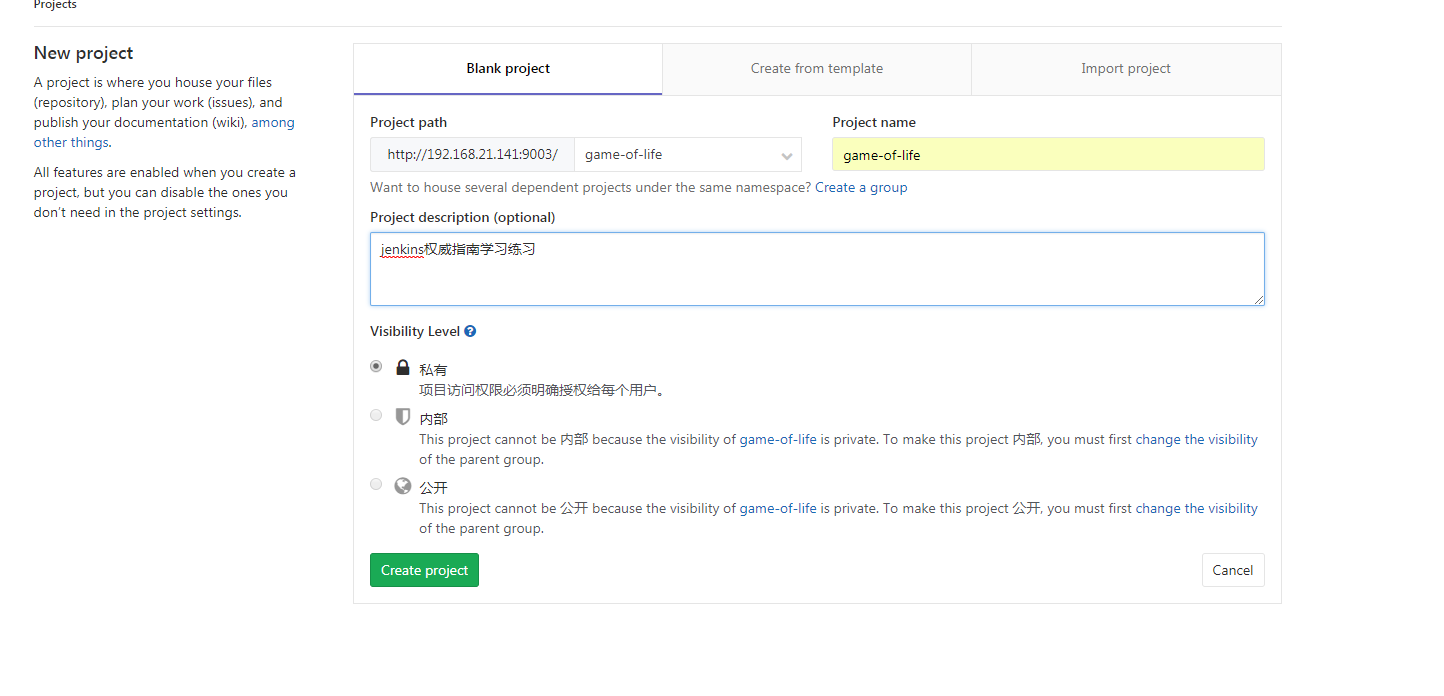
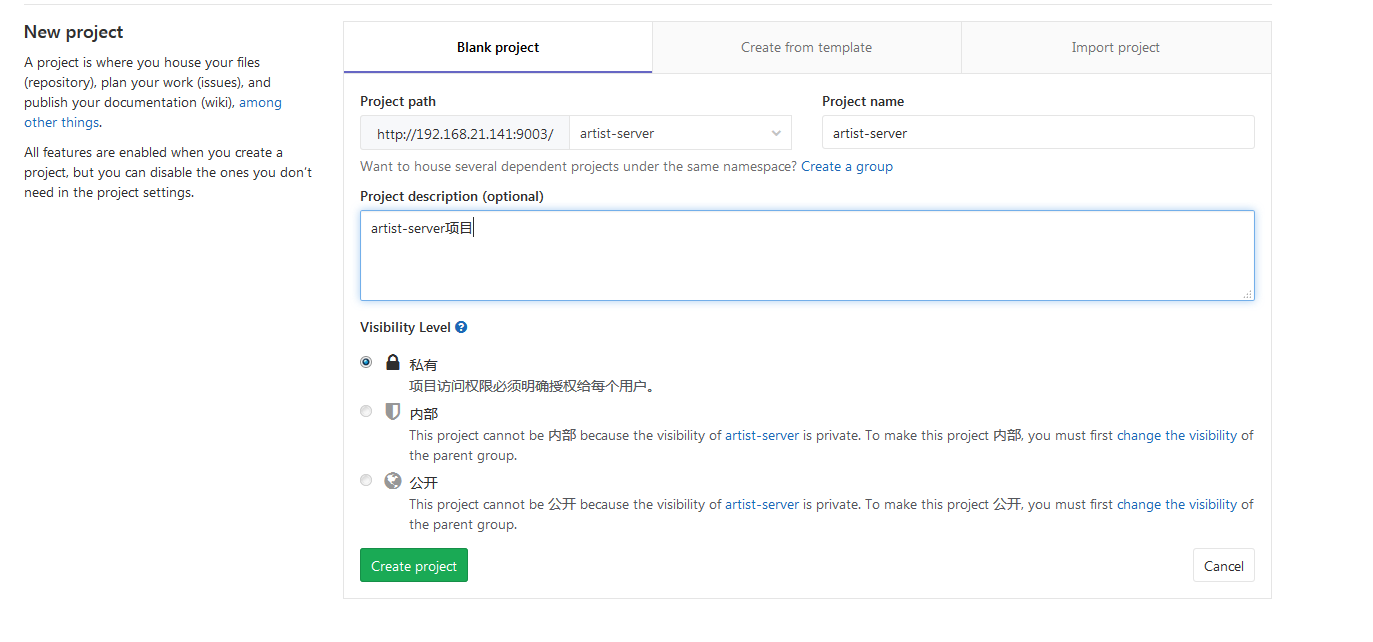
删除不必要的文档

diff --git a/docker_jenkins_gitlab/gitlab-webhook-jenkins.md b/docker_jenkins_gitlab/gitlab-webhook-jenkins.md
@@ -21,7 +21,7 @@
 		![jenkins中java jdk设置](images/docker_jenkins_gitlab/jenkins-jdk.png)
 	* maven设置
 		![jenkins中maven设置](images/docker_jenkins_gitlab/jenkins-maven.png)
-* 配置GitLab插件,获得accessToken(创建一个用户jenkins，密码为jenkinspwd)
+* 配置GitLab插件,获得accessToken(创建一个用户jenkins，密码为jenkinsjenkins)
 	![Access Token获得](images/docker_jenkins_gitlab/gitlab-access-token.png)
 * jenkins中gitlab配置
 	![jenkins中gitlab设置](images/docker_jenkins_gitlab/jenkins-gitlab.png)
@@ -38,10 +38,13 @@
 ## jenkins创建Job
 * 创建一个maven的job
 
-	！[创建一个maven的job](images/docker_jenkins_gitlab/maven-job-create.png)
+	![创建一个maven的job](images/docker_jenkins_gitlab/maven-job-create.png)
 * 设置git
 	![git设置](images/docker_jenkins_gitlab/maven-job-credentials-add.png)
+	此处的用户名和密码为jenkins/jenkinsjenkins
 	![gitlab中的jenkins用户和密码](images/docker_jenkins_gitlab/maven-job-credentials-gitlab-info.png)
+	选择后不出现红色告警提示
+	![git设置](images/docker_jenkins_gitlab/maven-job-credentials-selected.png)
 * pom设置
 	![pom设置](images/docker_jenkins_gitlab/maven-job-pom.png)
 
@@ -54,11 +57,12 @@
 ![](images/docker_jenkins_gitlab/gitlab-webhook-setting.png)
 ### test报错403错误时Hook
  executed successfully but returned HTTP 403，我们须要进入jenkins
+ ![](images/docker_jenkins_gitlab/gitlab-webhook-trigger-error.png)
 
  系统设置-Configure Global Security中，关闭（去掉勾选： 防止跨站点请求伪造），然后在点击gitlab
  webhooks test OK 返回201 成功，查看jenkins 项目自动构建啦
+  ![](images/docker_jenkins_gitlab/gitlab-webhook-trigger-success.png)
 
 ### 设置仅仅是在push代码时触发构建，不区分分支，如果区分分支jenkins中设置如下：
 ![](images/docker_jenkins_gitlab/jenkins-webhook-some-branch.png)
-
 

diff --git a/docker_jenkins_gitlab/docker-gitlab.md b/docker_jenkins_gitlab/docker-gitlab.md
@@ -106,10 +106,18 @@ ps:若宿机映射到gitlab的端口非80，在gitlab中创建的工程信息中
 ![](images/docker_jenkins_gitlab/gitlab_project_master.png)
 ###　原有代码上传
 未使用80端口需要在地址中指定端口
+![](images/docker_jenkins_gitlab/gitlab_project_code_push.png)
 
-* 添加源: ` git remote add gitlab http://192.168.21.141:9003/game-of-life/game-of-life.git`
-* 推送代码： ` git push -u gitlab --all`
-* 推送标签：` git push -u gitlab --tag`
+ 此处使用的操作为:
+<pre><code>
+$ git remote add gitlab http://192.168.21.141:9003/artist-server/artist-server.git
+$ git push -u gitlab  --all
+$ git push -u gitlab --tags
+</code></pre>
 
+ps:推送代码时需要输入gitlab的用户名和密码，只需要使用该项目成员为master的用户名和密码，如前面在gitlab中创建的用户jenkins,密码为：jenkinsjenkins
+
+### 推送结果
+![](images/docker_jenkins_gitlab/gitlab_code_push_result.png)
 
 
